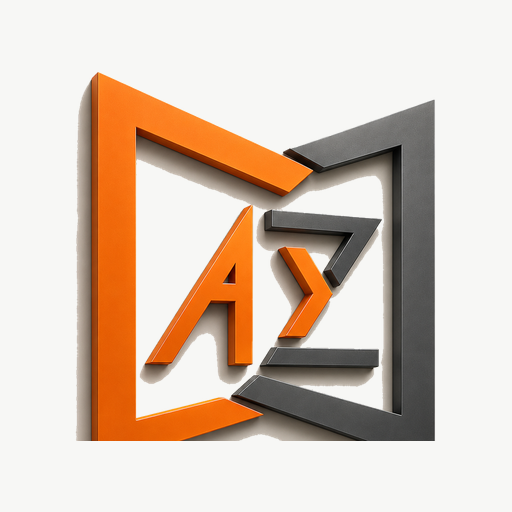
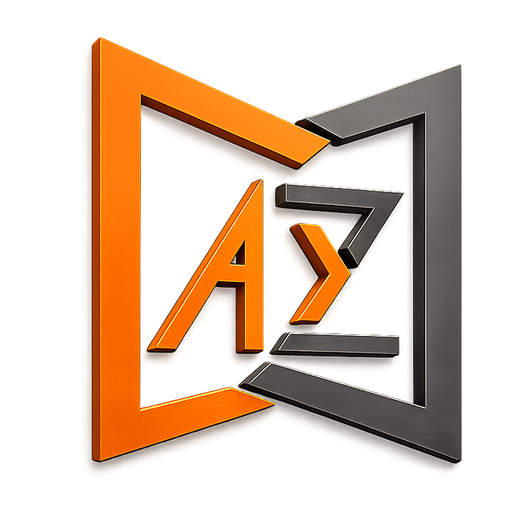
Add files via upload

diff --git a/lib/components/Brand.tsx b/lib/components/Brand.tsx
@@ -1,24 +1,31 @@
 /**
  * AZ Joinery brand lockups.
  *
- * The logo is a dimensional render built for light backgrounds — its charcoal
- * half disappears if you drop it straight onto dark chrome or photography.
- * Rather than recolour it (which destroys the bevels), dark surfaces get the
- * mark on a light plaque, the way the real signage reads against a dark wall.
+ * Artwork: the official dimensional render, supplied as a clean transparent
+ * PNG/WebP. The earlier file had a cream drop-shadow halo baked into its
+ * semi-transparent pixels, which is why dark surfaces previously needed a light
+ * "plaque" tile behind the mark. The current artwork composites correctly on
+ * both dark and light, so the plaque is off by default — the mark now sits
+ * directly on the surface, which is what the brand guide asks for.
  *
- *   <LogoMark />              symbol, light background
- *   <LogoMark plaque />       symbol on a light tile, for dark backgrounds
+ * `plaque` is retained for the rare case of placing the mark on busy midtone
+ * photography, where a tile still helps separation.
+ *
+ *   <LogoMark />              symbol (square)
  *   <LogoFull />              symbol + JOINERY wordmark (login, splash, print)
  *   <BrandLockup tone="…" />  symbol + typeset name (app header / rail)
  *
  * Clear space: each lockup reserves padding of ~20% of its height. Never
- * stretch, rotate, or recolour the artwork.
+ * stretch, rotate, or recolour the artwork — the sizing below is driven off a
+ * single dimension with the other derived, so the ratio can never drift.
  */
 
 /* eslint-disable @next/next/no-img-element */
 
-const MARK_RATIO = 788 / 768; // height / width of logo-mark.png
-const FULL_RATIO = 1338 / 1024; // height / width of logo.png
+/** logo-mark is a square crop of the official artwork. */
+const MARK_RATIO = 1; // height / width
+/** logo is the full lockup, trimmed to its own bounds: 405 x 512. */
+const FULL_RATIO = 512 / 405; // height / width
 
 export function LogoMark({
   size = 32,
@@ -26,7 +33,7 @@ export function LogoMark({
   className = "",
 }: {
   size?: number;
-  /** Wrap in a light tile so the charcoal half stays legible on dark surfaces. */
+  /** Wrap in a light tile. Only needed over busy midtone photography. */
   plaque?: boolean;
   className?: string;
 }) {
@@ -36,12 +43,13 @@ export function LogoMark({
       alt="AZ Joinery"
       width={size}
       height={Math.round(size * MARK_RATIO)}
-      className="select-none"
+      style={{ width: size, height: size * MARK_RATIO, objectFit: "contain" }}
+      className="block max-w-full select-none"
       draggable={false}
     />
   );
 
-  if (!plaque) return <span className={className}>{img}</span>;
+  if (!plaque) return <span className={`inline-flex shrink-0 ${className}`}>{img}</span>;
 
   return (
     <span
@@ -58,6 +66,7 @@ export function LogoFull({
   plaque = false,
   className = "",
 }: {
+  /** Width in px; height is derived so the artwork can never be squashed. */
   size?: number;
   plaque?: boolean;
   className?: string;
@@ -68,12 +77,17 @@ export function LogoFull({
       alt="AZ Joinery"
       width={size}
       height={Math.round(size * FULL_RATIO)}
-      className="select-none"
+      style={{
+        width: size,
+        height: size * FULL_RATIO,
+        objectFit: "contain",
+      }}
+      className="block max-w-full select-none"
       draggable={false}
     />
   );
 
-  if (!plaque) return <span className={className}>{img}</span>;
+  if (!plaque) return <span className={`inline-flex shrink-0 ${className}`}>{img}</span>;
 
   return (
     <span
@@ -86,8 +100,8 @@ export function LogoFull({
 }
 
 /**
- * Header lockup: mark + typeset name. On a dark rail the mark gets its plaque
- * and the name sits in white; pass tone="dark" for light backgrounds.
+ * Header lockup: mark + typeset name. On a dark rail the name sits in white;
+ * pass tone="dark" for light backgrounds.
  */
 export function BrandLockup({
   tone = "light",
@@ -105,7 +119,7 @@ export function BrandLockup({
 
   return (
     <div className={`flex items-center gap-2.5 ${className}`}>
-      <LogoMark size={markSize} plaque={onDark} />
+      <LogoMark size={markSize} />
       <div className="leading-none">
         <div
           className={`font-heading font-semibold tracking-tight ${

diff --git a/lib/components/WorkshopImage.tsx b/lib/components/WorkshopImage.tsx
@@ -1,0 +1,86 @@
+/**
+ * Art-directed workshop photography.
+ *
+ * The workshop photo is a wide, deep interior. Shrinking the desktop crop down
+ * to a phone throws away the machinery and leaves a grey wall, so each
+ * breakpoint gets its own crop of the same frame:
+ *
+ *   mobile   1080x1920  vertical, bench and CNC in shot
+ *   tablet   1600x1200  balanced landscape
+ *   desktop  1920x1080  full floor, extraction and panel saw visible
+ *   square   1080x1080  narrow columns and mobile headers
+ *
+ * WebP is offered first with a JPEG fallback. `object-position` is tuned per
+ * variant so the focal point (the two benches) survives the crop rather than
+ * drifting off-frame.
+ *
+ * Adding another approved photo later means adding a key here — the components
+ * that consume it don't need to change.
+ */
+
+/* eslint-disable @next/next/no-img-element */
+
+export type WorkshopVariant = "hero" | "square";
+
+/** Focal point of the frame, so cropping never cuts the benches out. */
+const FOCUS = "50% 62%";
+
+export function WorkshopImage({
+  variant = "hero",
+  className = "",
+  priority = false,
+  alt = "The AZ Joinery workshop floor in Chipping Norton",
+}: {
+  variant?: WorkshopVariant;
+  className?: string;
+  /** Set on the login and dashboard heroes so the image is not lazy-loaded. */
+  priority?: boolean;
+  alt?: string;
+}) {
+  if (variant === "square") {
+    return (
+      <picture className={className}>
+        <source srcSet="/workshop/square.webp" type="image/webp" />
+        <img
+          src="/workshop/square.jpg"
+          alt={alt}
+          className="h-full w-full object-cover"
+          style={{ objectPosition: FOCUS }}
+          loading={priority ? "eager" : "lazy"}
+          decoding="async"
+          draggable={false}
+        />
+      </picture>
+    );
+  }
+
+  return (
+    <picture className={className}>
+      {/* Phones: vertical crop. */}
+      <source
+        media="(max-width: 767px)"
+        srcSet="/workshop/hero-tall.webp"
+        type="image/webp"
+      />
+      <source media="(max-width: 767px)" srcSet="/workshop/hero-tall.jpg" />
+      {/* Tablets: balanced landscape. */}
+      <source
+        media="(max-width: 1023px)"
+        srcSet="/workshop/hero-tablet.webp"
+        type="image/webp"
+      />
+      <source media="(max-width: 1023px)" srcSet="/workshop/hero-tablet.jpg" />
+      {/* Desktop: full width of the floor. */}
+      <source srcSet="/workshop/hero-wide.webp" type="image/webp" />
+      <img
+        src="/workshop/hero-wide.jpg"
+        alt={alt}
+        className="h-full w-full object-cover"
+        style={{ objectPosition: FOCUS }}
+        loading={priority ? "eager" : "lazy"}
+        decoding="async"
+        draggable={false}
+      />
+    </picture>
+  );
+}

diff --git a/app/auth/login/page.tsx b/app/auth/login/page.tsx
@@ -6,6 +6,7 @@ import { useAuth } from "@/lib/store/auth";
 import { landingPageForRole } from "@/lib/roles";
 import Icon from "@/lib/components/Icon";
 import { LogoFull, LogoMark } from "@/lib/components/Brand";
+import { WorkshopImage } from "@/lib/components/WorkshopImage";
 
 /**
  * Split login: workshop photography on the left (desktop), form on the right.
@@ -29,16 +30,15 @@ export default function LoginPage() {
     <div className="flex min-h-screen flex-col lg:flex-row">
       {/* ---------------- Brand / imagery panel ---------------- */}
       <section className="relative isolate hidden overflow-hidden bg-ink-950 lg:flex lg:w-[52%] xl:w-[56%]">
-        <div
-          className="absolute inset-0 bg-cover bg-center"
-          style={{ backgroundImage: "url(/workshop/hero-wide.jpg)" }}
-          role="img"
-          aria-label="The AZ Joinery workshop floor"
+        <WorkshopImage
+          variant="hero"
+          priority
+          className="absolute inset-0 block h-full w-full"
         />
         <div className="img-scrim absolute inset-0" />
 
         <div className="relative z-10 flex w-full flex-col justify-between p-12 xl:p-16">
-          <LogoFull size={112} plaque />
+          <LogoFull size={104} />
 
           <div className="max-w-lg">
             <h1 className="font-heading text-4xl font-semibold leading-[1.15] tracking-tight text-white xl:text-5xl">
@@ -68,13 +68,15 @@ export default function LoginPage() {
       <section className="flex flex-1 flex-col bg-white">
         {/* Mobile branded header */}
         <div className="relative isolate overflow-hidden bg-ink-950 px-6 py-9 lg:hidden">
-          <div
-            className="absolute inset-0 bg-cover bg-center"
-            style={{ backgroundImage: "url(/workshop/team-square-sm.jpg)" }}
+          <WorkshopImage
+            variant="square"
+            priority
+            alt=""
+            className="absolute inset-0 block h-full w-full"
           />
           <div className="img-scrim absolute inset-0" />
           <div className="relative z-10 flex items-center gap-3">
-            <LogoMark size={40} plaque />
+            <LogoMark size={40} />
             <div>
               <div className="font-heading text-xl font-semibold tracking-tight text-white">
                 AZ Joinery

diff --git a/app/(app)/dashboard/page.tsx b/app/(app)/dashboard/page.tsx
@@ -6,6 +6,7 @@ import { useAuth } from "@/lib/store/auth";
 import { api } from "@/lib/api/client";
 import { DailyEntry, Job } from "@/lib/types";
 import Icon, { type IconName } from "@/lib/components/Icon";
+import { WorkshopImage } from "@/lib/components/WorkshopImage";
 
 // Roles that get the executive/management overview instead of the
 // floor-worker daily-log form. This mirrors the old app's split between
@@ -47,15 +48,12 @@ function WorkshopHero({
 }) {
   return (
     <section className="relative isolate mb-6 overflow-hidden rounded-card bg-ink-950">
-      {/* Art direction: the square crop frames the team at the bench, which
-          reads far better in a narrow column; the wide crop shows the floor. */}
-      <div
-        className="absolute inset-0 bg-cover bg-center md:hidden"
-        style={{ backgroundImage: "url(/workshop/team-square-sm.jpg)" }}
-      />
-      <div
-        className="absolute inset-0 hidden bg-cover bg-center md:block"
-        style={{ backgroundImage: "url(/workshop/hero-wide.jpg)" }}
+      {/* Art direction lives in <WorkshopImage>: each breakpoint gets its own
+          crop of the same frame rather than one image squeezed to fit. */}
+      <WorkshopImage
+        variant="hero"
+        priority
+        className="absolute inset-0 block h-full w-full"
       />
       <div className="img-scrim absolute inset-0" />
 

diff --git a/app/(app)/layout.tsx b/app/(app)/layout.tsx
@@ -325,7 +325,7 @@ function BootSplash() {
     <div className="relative grid min-h-screen place-items-center overflow-hidden bg-ink-950">
       <div
         className="absolute inset-0 bg-cover bg-center opacity-25"
-        style={{ backgroundImage: "url(/workshop/team-square-sm.jpg)" }}
+        style={{ backgroundImage: "url(/workshop/team-square-sm.webp)" }}
       />
       <div className="absolute inset-0 bg-gradient-to-b from-ink-950/70 via-ink-950/85 to-ink-950" />
       <div className="relative flex flex-col items-center gap-6">

diff --git a/lib/components/InstallPrompt.tsx b/lib/components/InstallPrompt.tsx
@@ -120,8 +120,8 @@ export default function InstallPrompt() {
               src="/brand/logo-mark.webp"
               alt=""
               width={40}
-              height={41}
-              className="mt-0.5 shrink-0 rounded-lg bg-[#F7F7F5] p-1 ring-1 ring-black/5"
+              height={40}
+              className="mt-0.5 h-10 w-10 shrink-0 object-contain"
             />
             <div className="min-w-0 flex-1">
               <p className="font-heading text-[15px] font-semibold text-ink-900">
